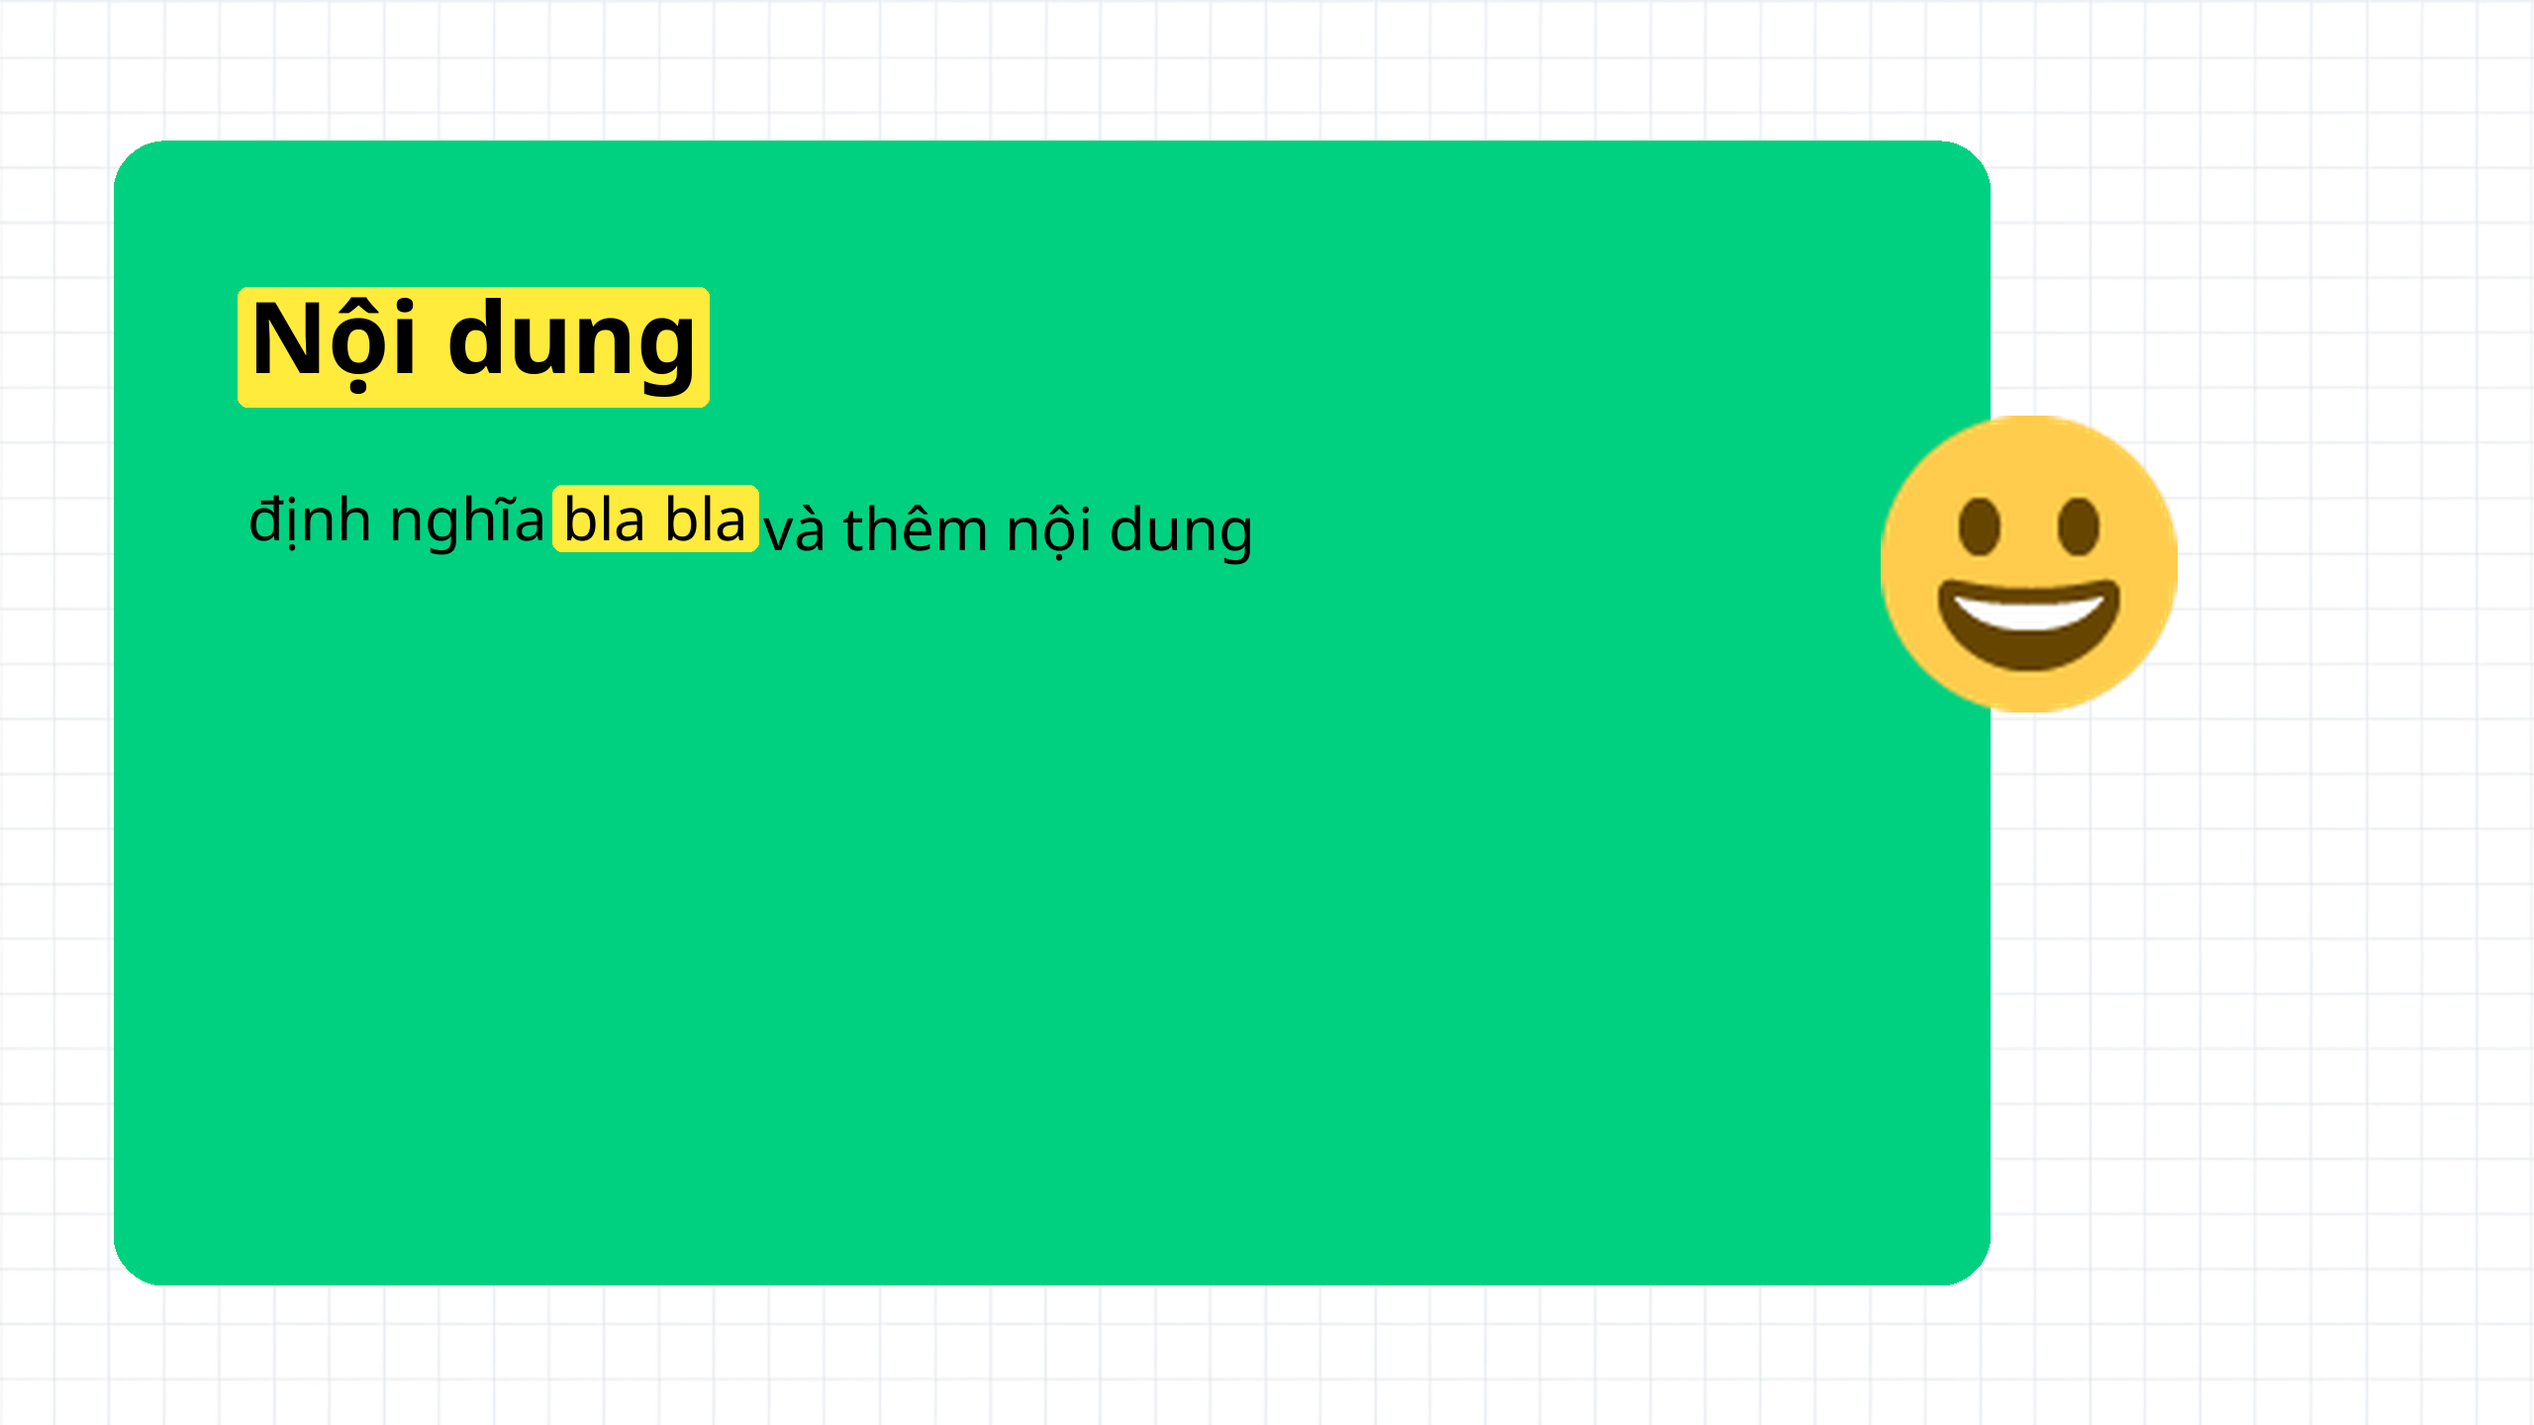
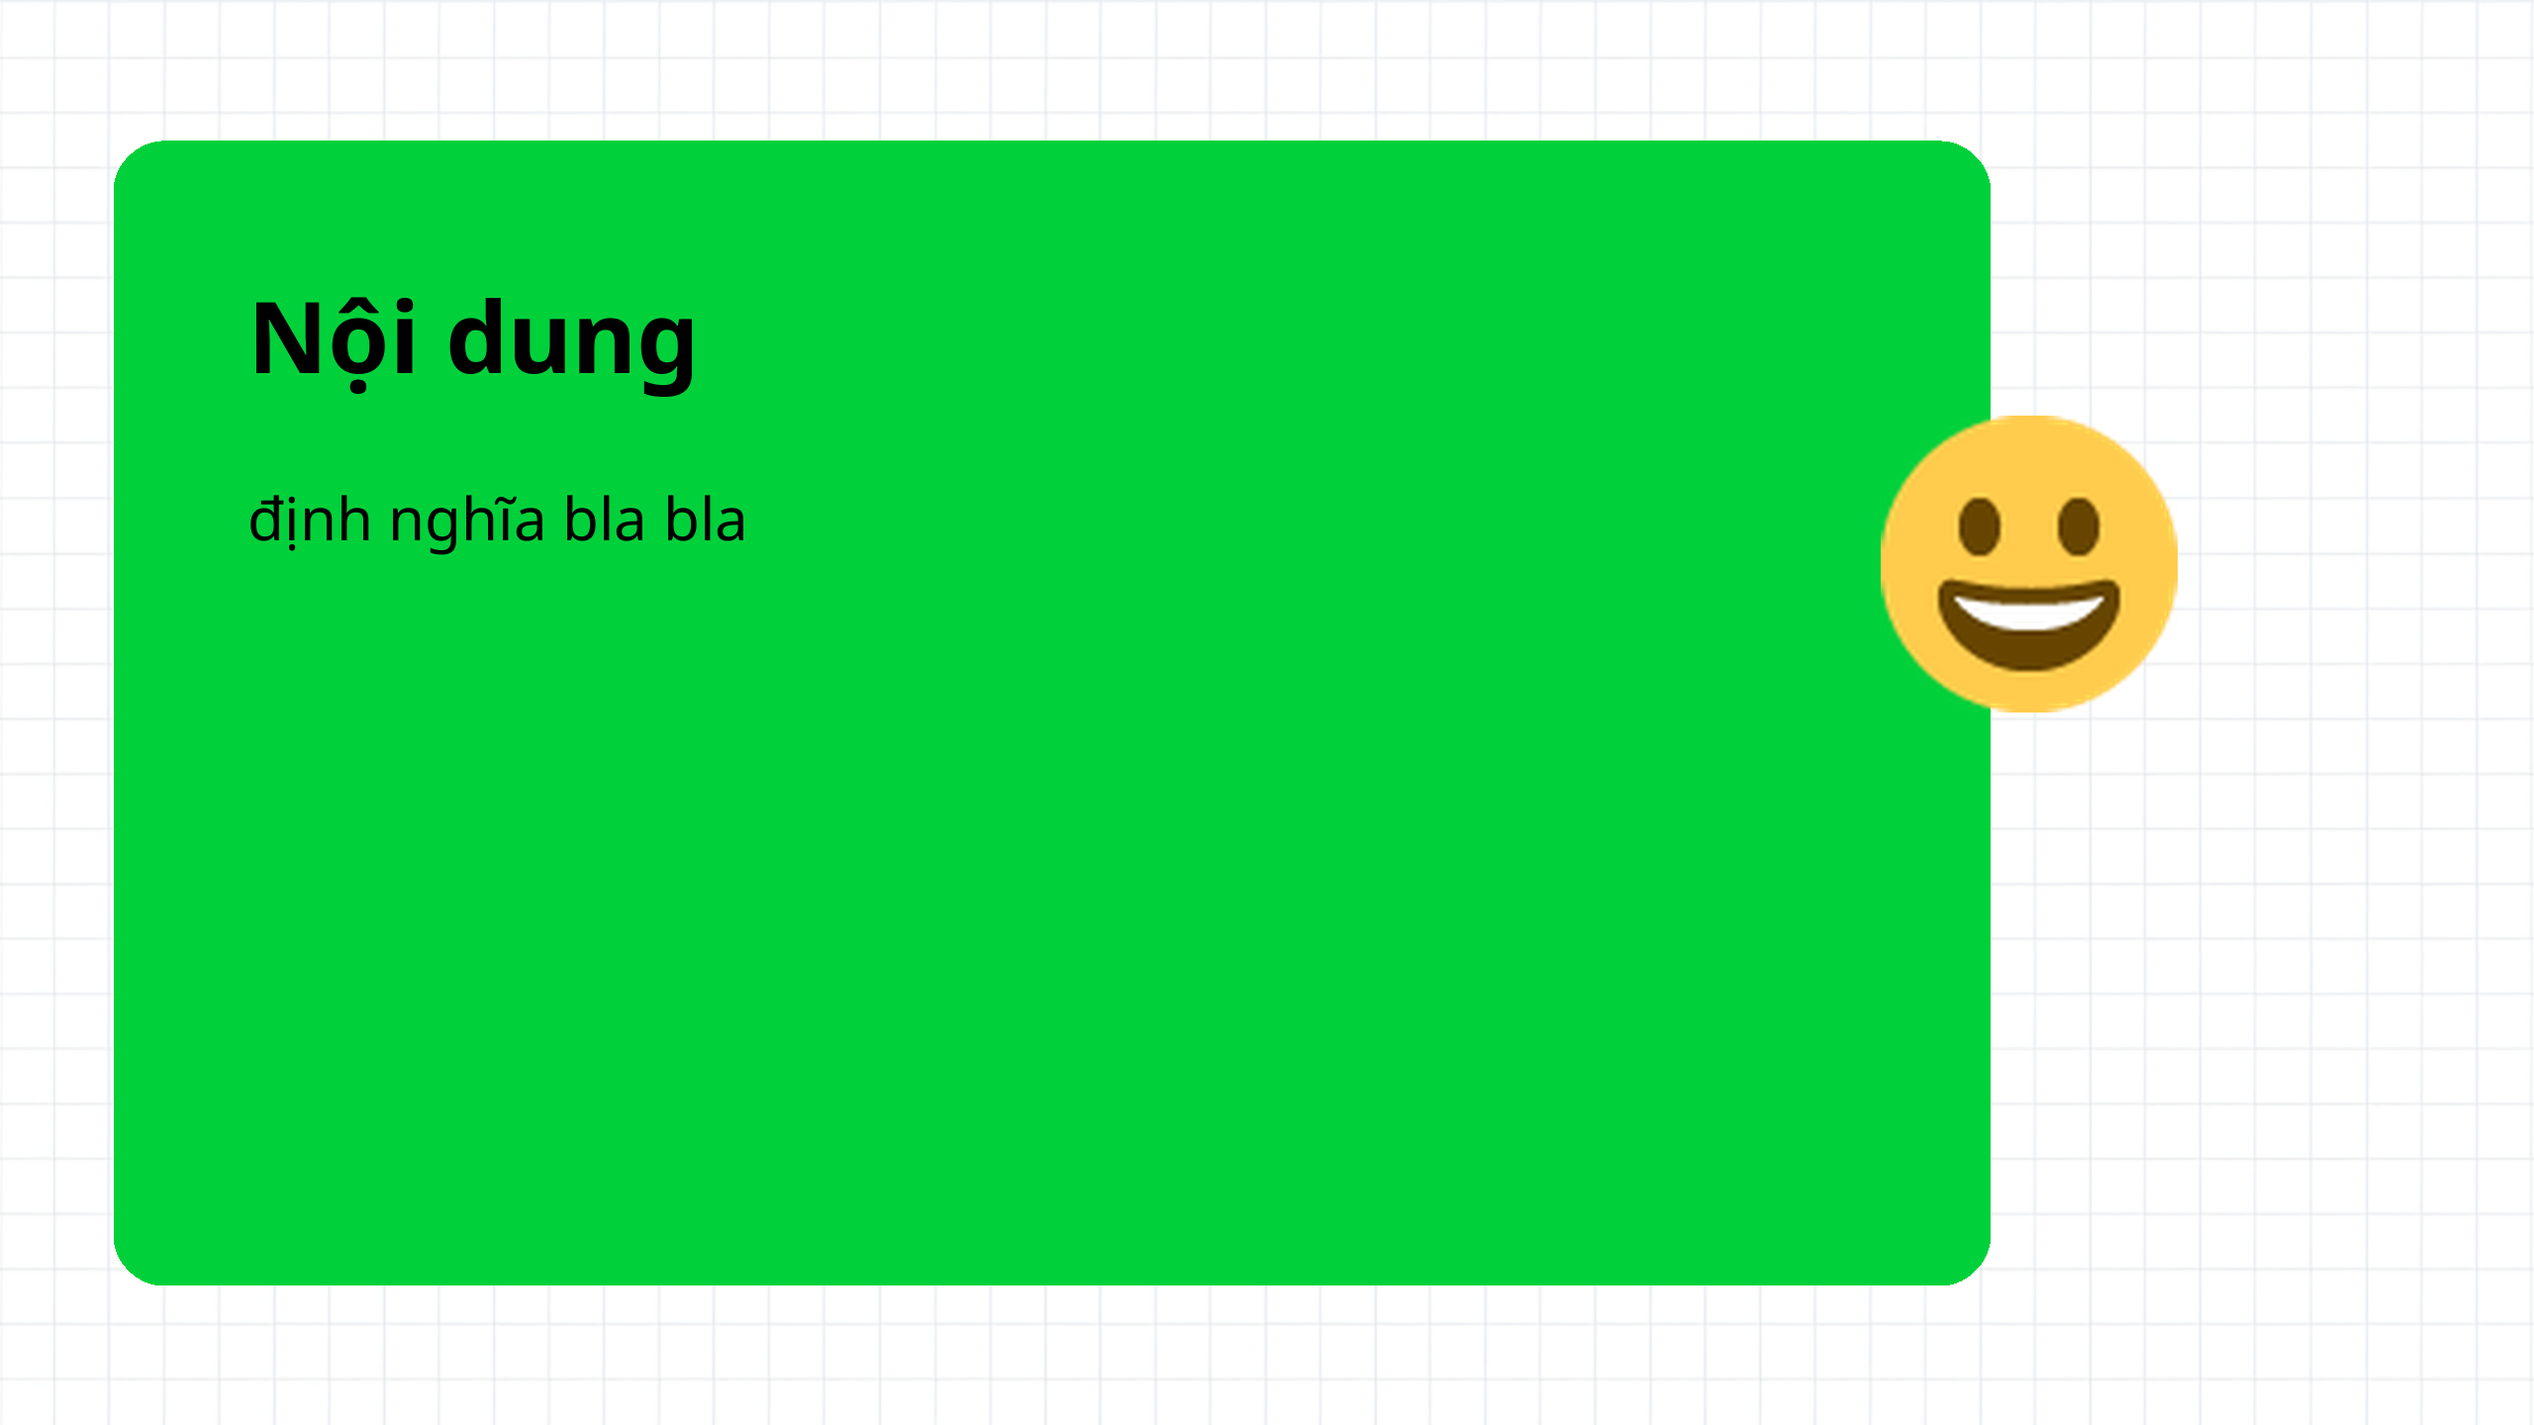
Delete Stupid highlight

diff --git a/python.py b/python.py
@@ -3,7 +3,6 @@ import random
 import colorsys
 from PIL import Image, ImageDraw, ImageFont
 import textwrap
-import re
 
 # ==============================================================================
 # --- HÀM TIỆN ÍCH ---
@@ -32,106 +31,20 @@ def load_font(font_dir, font_name, size):
         print(f"⚠ Không tìm thấy font '{font_name}', dùng font mặc định.")
         return ImageFont.load_default()
 
-def parse_markdown_bold(text):
-    """Parse text và tách phần **bold** ra"""
-    parts = []
-    pattern = r'\*\*(.*?)\*\*'
-    last_end = 0
-    
-    for match in re.finditer(pattern, text):
-        # Thêm text trước phần bold
-        if match.start() > last_end:
-            parts.append({'text': text[last_end:match.start()], 'bold': False})
-        # Thêm phần bold
-        parts.append({'text': match.group(1), 'bold': True})
-        last_end = match.end()
-    
-    # Thêm phần text còn lại
-    if last_end < len(text):
-        parts.append({'text': text[last_end:], 'bold': False})
-    
-    # Nếu không có bold nào, trả về toàn bộ text
-    if not parts:
-        parts = [{'text': text, 'bold': False}]
-    
-    return parts
-
-def draw_rounded_rectangle(draw, coords, fill, radius=15):
-    """Vẽ hình chữ nhật bo góc"""
-    x1, y1, x2, y2 = coords
-    
-    # Vẽ hình chữ nhật chính (không có góc)
-    draw.rectangle([x1 + radius, y1, x2 - radius, y2], fill=fill)
-    draw.rectangle([x1, y1 + radius, x2, y2 - radius], fill=fill)
-    
-    # Vẽ 4 góc bo tròn
-    draw.ellipse([x1, y1, x1 + 2*radius, y1 + 2*radius], fill=fill)
-    draw.ellipse([x2 - 2*radius, y1, x2, y1 + 2*radius], fill=fill)
-    draw.ellipse([x1, y2 - 2*radius, x1 + 2*radius, y2], fill=fill)
-    draw.ellipse([x2 - 2*radius, y2 - 2*radius, x2, y2], fill=fill)
-
-def draw_text_with_markdown(draw, position, text, font, text_color="black", bg_color=(255, 235, 59), padding=10, anchor="lt", y_offset_after_last_bold=10):
-    """Vẽ text với markdown support - chỉ phần **bold** mới có nền vàng"""
-    parts = parse_markdown_bold(text)
-    x, y = position
-    current_x = x
-    current_y = y
-    
-    # Tìm vị trí của highlight cuối cùng
-    last_bold_index = -1
-    for i, part in enumerate(parts):
-        if part['bold']:
-            last_bold_index = i
-    
-    for i, part in enumerate(parts):
-        part_text = part['text']
-        
-        if part['bold']:
-            # Tính kích thước text cho background
-            bbox = draw.textbbox((current_x, current_y), part_text, font=font, anchor=anchor)
-            
-            # Vẽ background màu vàng cho phần bold
-            bg_x1 = bbox[0] - padding
-            bg_y1 = bbox[1] - padding
-            bg_x2 = bbox[2] + padding
-            bg_y2 = bbox[3] + padding
-            
-            draw_rounded_rectangle(draw, [bg_x1, bg_y1, bg_x2, bg_y2], fill=bg_color, radius=10)
-        
-        # Vẽ text
-        draw.text((current_x, current_y), part_text, fill=text_color, font=font, anchor=anchor)
-        
-        # Cập nhật vị trí x cho phần text tiếp theo
-        text_width = draw.textlength(part_text, font=font) if hasattr(draw, 'textlength') else (draw.textbbox((current_x, current_y), part_text, font=font)[2] - draw.textbbox((current_x, current_y), part_text, font=font)[0])
-        current_x += text_width
-        
-        # Nếu đây là highlight cuối cùng, thêm offset Y cho các phần text tiếp theo
-        if part['bold'] and i == last_bold_index:
-            current_y += y_offset_after_last_bold
-
 def wrap_text_to_fit_width(text, font, max_width):
-    """Wrap text và giữ nguyên markdown"""
     draw_temp = ImageDraw.Draw(Image.new('RGB', (1, 1)))
-    
-    # Loại bỏ markdown để tính toán độ rộng
-    clean_text = re.sub(r'\*\*(.*?)\*\*', r'\1', text)
-    text_width = draw_temp.textbbox((0, 0), clean_text, font=font)[2]
-    
+    text_width = draw_temp.textbbox((0, 0), text, font=font)[2]
     if text_width <= max_width:
-        text_height = draw_temp.textbbox((0, 0), clean_text, font=font)[3]
+        text_height = draw_temp.textbbox((0, 0), text, font=font)[3]
         return [text], text_height
     
-    # Split theo từ nhưng giữ markdown
     words = text.split()
     lines = []
     current_line = ""
     
     for word in words:
         test_line = current_line + (" " if current_line else "") + word
-        # Loại bỏ markdown để test độ rộng
-        clean_test = re.sub(r'\*\*(.*?)\*\*', r'\1', test_line)
-        test_width = draw_temp.textbbox((0, 0), clean_test, font=font)[2]
-        
+        test_width = draw_temp.textbbox((0, 0), test_line, font=font)[2]
         if test_width <= max_width:
             current_line = test_line
         else:
@@ -168,15 +81,9 @@ def add_data_for_opening(image_to_draw_on, data, font_dir):
     text_lines, total_height = wrap_text_to_fit_width(title_text, font_for_title, max_width)
     start_y = text_position_y - (total_height / 2)
     line_height = draw.textbbox((0, 0), "Aa", font=font_for_title)[3] * 1.2
-    
     for i, line in enumerate(text_lines):
         line_y = start_y + (i * line_height)
-        # Tính toán để căn giữa
-        clean_line = re.sub(r'\*\*(.*?)\*\*', r'\1', line)
-        line_width = draw.textbbox((0, 0), clean_line, font=font_for_title)[2]
-        start_x = text_position_x - (line_width / 2)
-        draw_text_with_markdown(draw, (start_x, line_y), line, font_for_title, anchor="lt")
-    
+        draw.text((text_position_x, line_y), line, fill="black", font=font_for_title, anchor="mt")
     return image_to_draw_on
 
 def paste_emoji_image(base_img, emoji_char, pos, size, emoji_dir):
@@ -210,7 +117,7 @@ def add_data_for_definition(image_to_draw_on, data, font_dir):
 
     term_x = 250
     term_y = 300
-    draw_text_with_markdown(draw, (term_x, term_y), term, font_for_term, anchor="lt")
+    draw.text((term_x, term_y), term, fill="black", font=font_for_term, anchor="lt")
 
     def_x = 250
     def_y = 500
@@ -220,7 +127,7 @@ def add_data_for_definition(image_to_draw_on, data, font_dir):
     
     for i, line in enumerate(def_lines):
         line_y = def_y + (i * line_height)
-        draw_text_with_markdown(draw, (def_x, line_y), line, font_for_definition, anchor="lt")
+        draw.text((def_x, line_y), line, fill="black", font=font_for_definition, anchor="lt")
     
     return image_to_draw_on
 
@@ -234,11 +141,24 @@ def add_data_for_chapter(image_to_draw_on, data, font_dir):
     text_lines, total_height = wrap_text_to_fit_width(title_text, font_for_title, max_width)
     start_y = text_position_y - (total_height / 2 - 50)
     line_height = draw.textbbox((0, 0), "Aa", font=font_for_title)[3] * 1.2
-    
     for i, line in enumerate(text_lines):
         line_y = start_y + (i * line_height)
-        draw_text_with_markdown(draw, (text_position_x, line_y), line, font_for_title, anchor="lt")
-    
+        draw.text((text_position_x, line_y), line, fill="black", font=font_for_title, anchor="lt")
+    return image_to_draw_on
+
+def add_data_for_opening(image_to_draw_on, data, font_dir):
+    title_text = data['title']
+    font_for_title = load_font(font_dir, "NotoSans-Bold.ttf", 150)
+    draw = ImageDraw.Draw(image_to_draw_on)
+    text_position_x = image_to_draw_on.width / 2
+    text_position_y = 450
+    max_width = 2000
+    text_lines, total_height = wrap_text_to_fit_width(title_text, font_for_title, max_width)
+    start_y = text_position_y - (total_height / 2)
+    line_height = draw.textbbox((0, 0), "Aa", font=font_for_title)[3] * 1.2
+    for i, line in enumerate(text_lines):
+        line_y = start_y + (i * line_height)
+        draw.text((text_position_x, line_y), line, fill="black", font=font_for_title, anchor="mt")
     return image_to_draw_on
 
 def add_data_for_quote(image_to_draw_on, data, font_dir):
@@ -251,11 +171,9 @@ def add_data_for_quote(image_to_draw_on, data, font_dir):
     text_lines, total_height = wrap_text_to_fit_width(title_text, font_for_title, max_width)
     start_y = text_position_y
     line_height = draw.textbbox((0, 0), "Aa", font=font_for_title)[3] * 1.2
-    
     for i, line in enumerate(text_lines):
         line_y = start_y + (i * line_height)
-        draw_text_with_markdown(draw, (text_position_x, line_y), line, font_for_title, anchor="lt")
-    
+        draw.text((text_position_x, line_y), line, fill="black", font=font_for_title, anchor="lt")
     return image_to_draw_on
 
 def add_data_for_question(image_to_draw_on, data, font_dir):
@@ -267,15 +185,9 @@ def add_data_for_question(image_to_draw_on, data, font_dir):
     max_width = 2000
     text_lines,_ = wrap_text_to_fit_width(title_text, font_for_title, max_width)
     line_height = draw.textbbox((0, 0), "Aa", font=font_for_title)[3] * 1.2
-    
     for i, line in enumerate(text_lines):
         line_y = text_position_y + (i * line_height)
-        # Tính toán để căn giữa
-        clean_line = re.sub(r'\*\*(.*?)\*\*', r'\1', line)
-        line_width = draw.textbbox((0, 0), clean_line, font=font_for_title)[2]
-        start_x = text_position_x - (line_width / 2)
-        draw_text_with_markdown(draw, (start_x, line_y), line, font_for_title, anchor="lt")
-    
+        draw.text((text_position_x, line_y), line, fill="black", font=font_for_title, anchor="mt")
     return image_to_draw_on
 
 def add_data_for_side_by_side(image_to_draw_on, data, font_dir):
@@ -303,7 +215,7 @@ def add_data_for_side_by_side(image_to_draw_on, data, font_dir):
     
     for i, line in enumerate(content_lines_left):
         line_y = content_y_left + (i * line_height)
-        draw_text_with_markdown(draw, (content_x_left, line_y), line, font_for_content, anchor="lt")
+        draw.text((content_x_left, line_y), line, fill="black", font=font_for_content, anchor="lt")
 
     # Right side
     right_emoji_char = right_data.get('emoji', '😀')
@@ -320,7 +232,7 @@ def add_data_for_side_by_side(image_to_draw_on, data, font_dir):
     
     for i, line in enumerate(content_lines_right):
         line_y = content_y_right + (i * line_height)
-        draw_text_with_markdown(draw, (content_x_right, line_y), line, font_for_content, anchor="lt")
+        draw.text((content_x_right, line_y), line, fill="black", font=font_for_content, anchor="lt")
 
     return image_to_draw_on
 
@@ -384,39 +296,39 @@ if __name__ == "__main__":
         {
             "template": "opening.png",
             "data": {
-                "title": "**Computer Vision** Overview",
+                "title": "Computer Vision Overview",
             }
         },
         {
             "template": "chapter.png",
             "data": {
-                "title": "Giới thiệu về **Computer Vision**",
+                "title": "Giới thiệu về Computer Vision",
             }
         },
         {
             "template": "definition.png",
             "data": {
                 "emoji": "😀",
-                "term": "**Nội dung**",
-                "definition": "định nghĩa **bla bla** và thêm nội dung"
+                "term": "Nội dung",
+                "definition": "định nghĩa bla bla "
             }
         },
         {
             "template": "chapter.png",
             "data": {
-                "title": "Các **kỹ thuật**",
+                "title": "Các kỹ thuật",
             }
         },
         {
             "template": "quote.png",
             "data": {
-                "title": "The task is to build a **CNN model** to classify handwritten images into the **digits 0 through 9**.",
+                "title": "The task is to build a CNN model to classify handwritten images into the digits 0 through 9.",
             }
         },
         {
             "template": "question.png",
             "data": {
-                "title": "Làm thế nào để cải thiện **độ chính xác** của mô hình **CNN**?",
+                "title": "Làm thế nào để cải thiện độ chính xác của mô hình CNN?",
             }
         },
         {
@@ -424,11 +336,11 @@ if __name__ == "__main__":
             "data": {
                 "left": {
                     "emoji": "🔢",
-                    "content": "Vòng lặp **for**: Use when the number of repetitions is **known**"
+                    "content": "Vòng lặp for: Use when the number of repetitions is known."
                 },
                 "right": {
                     "emoji": "🧐",
-                    "content": "Vòng lặp **while**: Use when the number of repetitions is **unknown** now"
+                    "content": "Vòng lặp while: Use when the number of repetitions is unknown."
                 }
             }
         },
